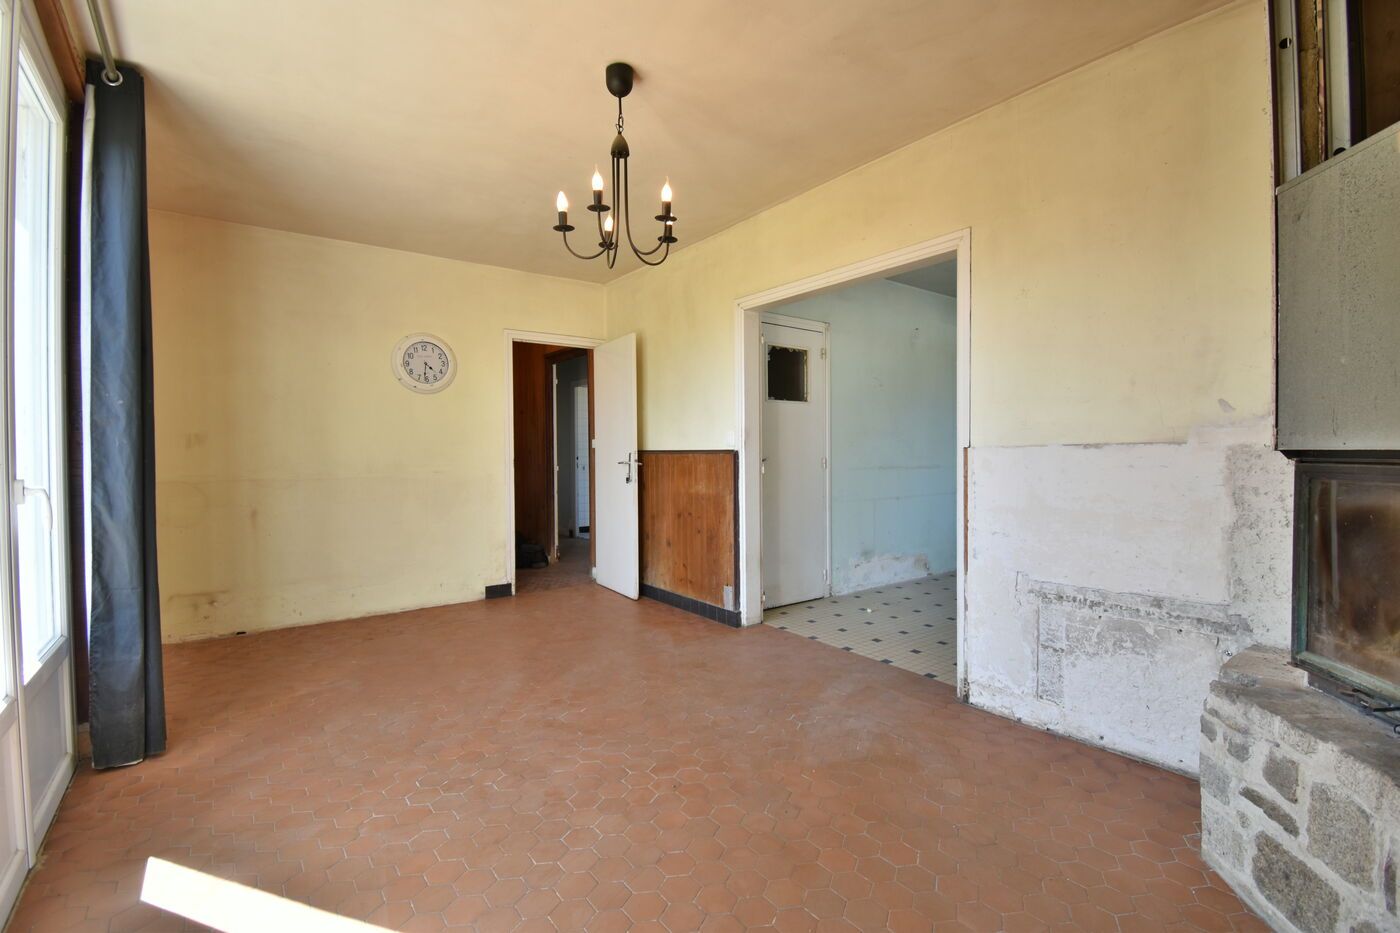
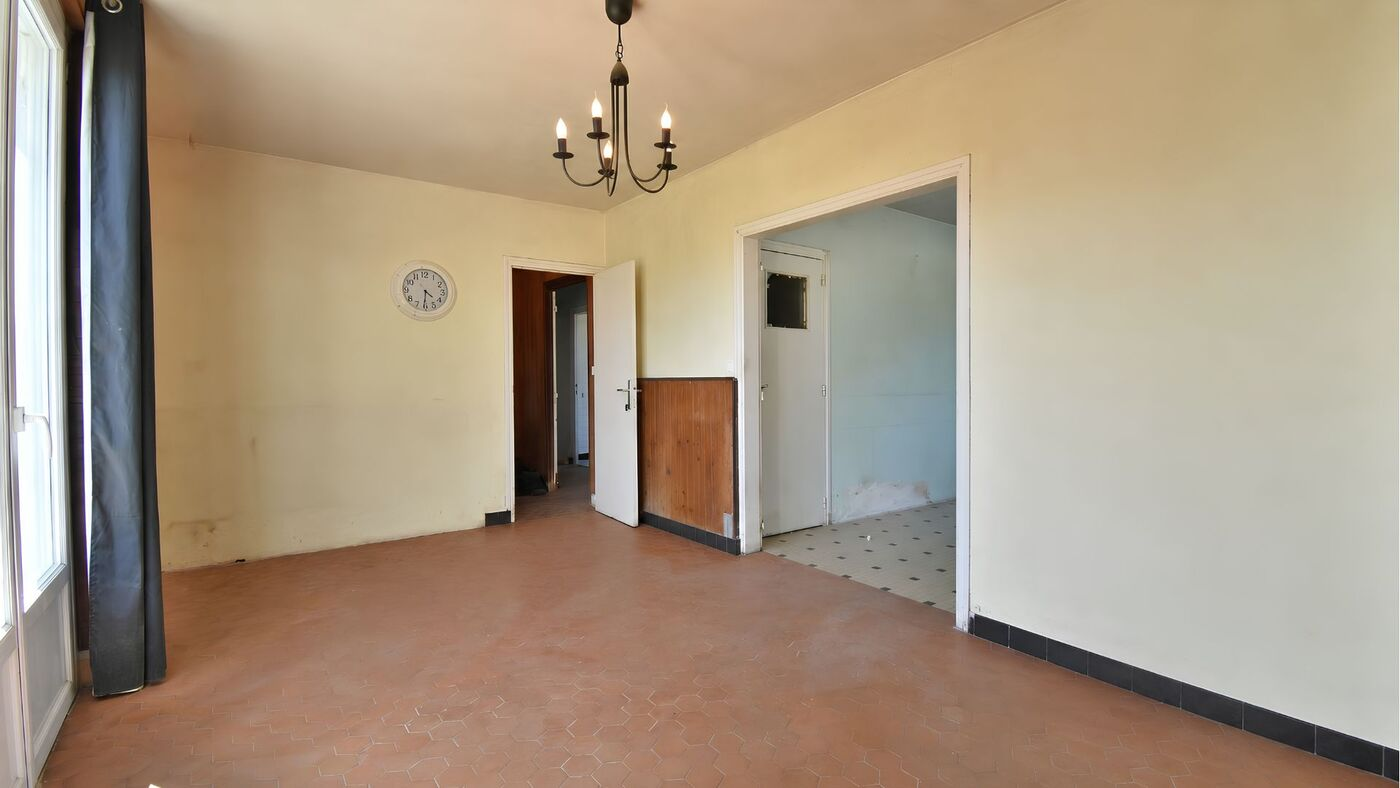
Add files via upload

diff --git a/book-erdeven/index.html b/book-erdeven/index.html
@@ -322,23 +322,45 @@ footer a{color:#A9A594}
     <p class="chapitre rev">03 — La transformation</p>
     <h2 class="rev">Je vous partage mes idées</h2>
     <div class="colonne" style="margin-left:0">
-      <p class="chapo rev">Le rez-de-chaussée propose une cuisine indépendante et un séjour lumineux avec insert bois. Restés dans leur configuration d'origine, ces espaces constituent une formidable base de transformation.</p>
-      <p class="rev">Ouvrir la cuisine sur le salon pour créer une grande pièce de vie conviviale, moderniser les finitions, prolonger l'espace vers le jardin&nbsp;: faites glisser le curseur pour passer de l'existant à la projection.</p>
+      <p class="chapo rev">Le rez-de-chaussée, resté dans sa configuration d'origine, constitue une formidable base de transformation. Faites glisser chaque curseur pour passer de l'existant à la projection.</p>
     </div>
-    <div class="comparateur rev" id="comparateur" role="slider" aria-label="Comparer avant et après" aria-valuemin="0" aria-valuemax="100" aria-valuenow="50" tabindex="0">
+
+    <h3 class="rev">Le séjour</h3>
+    <div class="comparateur rev" role="slider" aria-label="Comparer le séjour avant et après" aria-valuemin="0" aria-valuemax="100" aria-valuenow="50" tabindex="0">
       <img src="assets/sejour-apres.jpg" alt="Projection : le séjour transformé en grande pièce de vie meublée">
-      <div class="avant"><img src="assets/sejour-avant.jpg" alt="Le séjour dans son état d'origine, avec insert bois"></div>
+      <div class="avant"><img src="assets/sejour-avant.jpg" alt="Le séjour dans son état d'origine"></div>
       <span class="etiquette g">Avant</span>
       <span class="etiquette d">Projection</span>
       <div class="poignee"></div>
     </div>
-    <p class="note rev">Projection d'aménagement non contractuelle. Curseur&nbsp;: glissez, ou utilisez les flèches du clavier.</p>
+    <p class="note rev">Moderniser les finitions, prolonger l'espace vers le jardin&nbsp;: un séjour lumineux repensé pour la vie d'aujourd'hui.</p>
+
+    <h3 class="rev" style="margin-top:2.8rem">De la cuisine au salon</h3>
+    <div class="comparateur rev" role="slider" aria-label="Comparer l'ancienne cuisine et le salon projeté" aria-valuemin="0" aria-valuemax="100" aria-valuenow="50" tabindex="0">
+      <img src="assets/salon-apres.jpg" alt="Projection : un grand salon ouvert sur la salle à manger">
+      <div class="avant"><img src="assets/salon-avant.jpg" alt="L'ancienne cuisine dans son état d'origine"></div>
+      <span class="etiquette g">Avant</span>
+      <span class="etiquette d">Projection</span>
+      <div class="poignee"></div>
+    </div>
+    <p class="note rev">Transformer l'ancien espace cuisine en un magnifique salon, ouvert et baigné de lumière.</p>
+
+    <h3 class="rev" style="margin-top:2.8rem">D'une chambre à une salle de bain</h3>
+    <div class="comparateur rev" role="slider" aria-label="Comparer la chambre actuelle et la salle de bain projetée" aria-valuemin="0" aria-valuemax="100" aria-valuenow="50" tabindex="0">
+      <img src="assets/sdb-apres.jpg" alt="Projection : une salle de bain d'exception avec baignoire îlot">
+      <div class="avant"><img src="assets/sdb-avant.jpg" alt="Une chambre dans son état actuel"></div>
+      <span class="etiquette g">Avant</span>
+      <span class="etiquette d">Projection</span>
+      <div class="poignee"></div>
+    </div>
+    <p class="note rev">L'une des chambres pourrait devenir une salle de bain d'exception&nbsp;: baignoire îlot, douche à l'italienne, mur de pierre.</p>
+
+    <h3 class="rev" style="margin-top:2.8rem">L'escalier &amp; ses rangements</h3>
     <div class="paires">
-      <figure class="rev"><img src="assets/cuisine-avant-2.jpg" alt="La cuisine indépendante dans son état d'origine" loading="lazy"><figcaption>La cuisine indépendante de 15,6 m², à ouvrir sur le séjour pour créer une grande pièce de vie.</figcaption></figure>
-      <figure class="rev"><img src="assets/porte-entree.jpg" alt="La porte d'entrée en bois d'origine" loading="lazy"><figcaption>La porte d'entrée en bois, d'origine, apporte du caractère à la façade.</figcaption></figure>
       <figure class="rev"><img src="assets/escalier-avant.jpg" alt="L'escalier et son placard intégré" loading="lazy"><figcaption>Sous l'escalier, un placard intégré optimise les volumes.</figcaption></figure>
       <figure class="rev"><img src="assets/placard-apres.jpg" alt="Projection d'aménagement du placard sous escalier" loading="lazy"><figcaption>Projection&nbsp;: le même volume, repensé en rangements sur mesure.</figcaption></figure>
     </div>
+    <p class="note rev">Projections d'aménagement non contractuelles. Curseurs&nbsp;: glissez, ou utilisez les flèches du clavier.</p>
   </div>
 </section>
 
@@ -353,7 +375,7 @@ footer a{color:#A9A594}
     </div>
     <div class="panneau ouvert" id="pan-actuel" role="tabpanel" aria-labelledby="ong-actuel">
       <div class="deuxplans">
-        <figure><img src="assets/plan-rdc.jpg" alt="Plan actuel du rez-de-chaussée" loading="lazy"><figcaption>Rez-de-chaussée — entrée, cuisine indépendante, séjour lumineux avec insert, quatre chambres, salle de bains, WC séparés et cellier.</figcaption></figure>
+        <figure><img src="assets/plan-rdc.jpg" alt="Plan actuel du rez-de-chaussée" loading="lazy"><figcaption>Rez-de-chaussée — entrée, cuisine indépendante, séjour lumineux, quatre chambres, salle de bains, WC séparés et cellier.</figcaption></figure>
         <figure><img src="assets/plan-etage.jpg" alt="Plan actuel des combles" loading="lazy"><figcaption>Étage — combles bruts d'environ 71 m², facilement aménageables grâce au plancher béton et à la charpente en bon état.</figcaption></figure>
       </div>
       <figure style="margin-top:1.4rem"><img src="assets/combles.jpg" alt="Les combles et leur charpente" style="border-radius:2px" loading="lazy"><figcaption>Les combles aujourd'hui&nbsp;: un plateau libre sous une charpente saine.</figcaption></figure>
@@ -441,7 +463,7 @@ footer a{color:#A9A594}
 
     <div class="boutons rev" style="justify-content:center;margin-top:2rem">
       <button class="btn video-btn" type="button" id="videoBtn">▶ Voir la vidéo du bien</button>
-      <a class="btn" href="https://www.canva.com/design/DAGxftM8JfA/iSg3HuJwO9a3cc7uzizRUw/view" target="_blank" rel="noopener">Feuilleter le magazine</a>
+      <a class="btn" href="https://canva.link/fxt6ti0p6vmtzqp" target="_blank" rel="noopener">Qui est Roger-Jacques Vluys ?</a>
     </div>
   </div>
 </section>
@@ -517,9 +539,8 @@ const io = new IntersectionObserver(es => es.forEach(e => {
 }), { threshold: 0.12 });
 document.querySelectorAll('.rev').forEach(el => io.observe(el));
 
-/* ── Comparateur avant / après ── */
-const comp = document.getElementById('comparateur');
-if (comp) {
+/* ── Comparateurs avant / après (plusieurs sur la page) ── */
+document.querySelectorAll('.comparateur').forEach(comp => {
   const avant = comp.querySelector('.avant');
   const poignee = comp.querySelector('.poignee');
   let part = 0.5;
@@ -543,7 +564,7 @@ if (comp) {
     if (e.key === 'ArrowRight') { part = Math.min(0.97, part + 0.05); rendre(); e.preventDefault(); }
   });
   rendre();
-}
+});
 
 /* ── Onglets plans ── */
 document.querySelectorAll('.onglets [role="tab"]').forEach(ong => {
